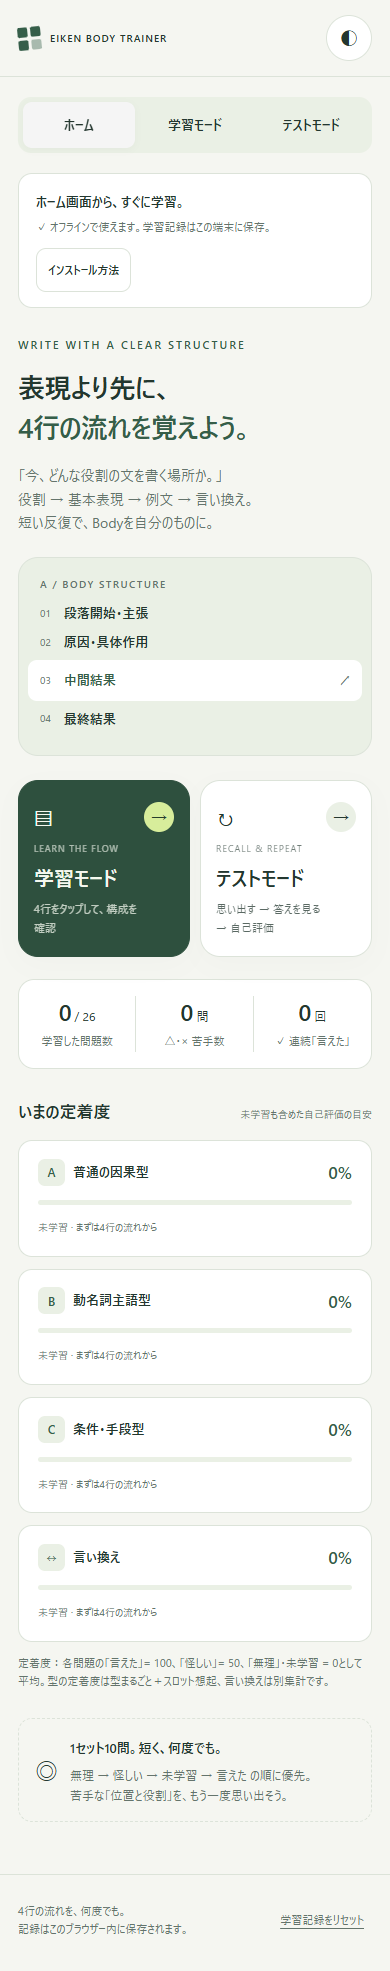
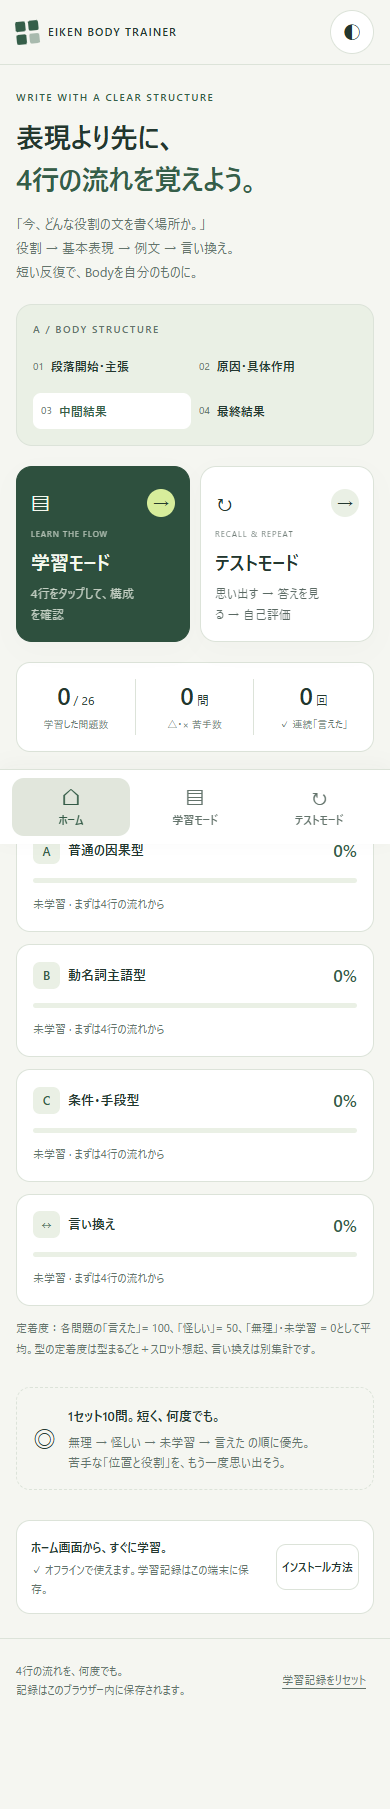
Refine mobile layout and navigation

diff --git a/index.html b/index.html
@@ -19,11 +19,108 @@
 .pwa-panel{margin-top:20px;padding:15px 17px;border:1px solid var(--line);border-radius:14px;background:var(--surface);display:flex;flex-wrap:wrap;gap:12px;align-items:center;justify-content:space-between}.pwa-panel strong{font-size:13px}.pwa-panel p{font-size:11px;color:var(--muted);margin:3px 0 0}.pwa-help{width:100%;border-top:1px solid var(--line);padding-top:10px}.pwa-help p{font-size:12px}
 .english{white-space:pre-line}
 .slot-toggle .english{white-space:pre-line}
+.nav-icon{display:none}
+@media(max-width:640px){
+ :root{--radius:18px}
+ body{font-size:14px;-webkit-text-size-adjust:100%;padding-bottom:calc(82px + env(safe-area-inset-bottom,0px))}
+ .wrap{padding-inline:16px}
+ header{position:sticky;top:0;z-index:20;background:var(--bg)}
+ .header{min-height:64px;gap:10px}
+ .brand{font-size:11px;letter-spacing:1.1px;min-width:0}
+ .icon-btn{width:44px;min-height:44px;flex-shrink:0}
+ body>.wrap{display:flex;flex-direction:column}
+ .navigation{position:fixed;inset:auto 0 0;z-index:30;width:100%;margin:0;padding:8px 12px calc(8px + env(safe-area-inset-bottom,0px));gap:6px;border:0;border-top:1px solid var(--line);border-radius:0;background:var(--surface);box-shadow:0 -4px 20px #17211d08}
+ .navigation button{display:flex;flex-direction:column;align-items:center;justify-content:center;gap:2px;min-height:58px;padding:4px 6px;font-size:11px;border-radius:12px;color:var(--muted)}
+ .nav-icon{display:block;font-size:22px;line-height:1.15;font-weight:400}
+ .navigation button[aria-current=page]{background:var(--soft);color:var(--accent);box-shadow:none}
+ #storage-warning{order:1}
+ main{order:2;min-width:0;padding:24px 0 30px}
+ .pwa-panel{order:3;margin:0 0 24px;padding:14px;border-radius:14px;gap:10px}
+ .pwa-panel>div:first-child{flex:1 1 160px}
+ .pwa-panel .detail-buttons{display:flex}
+ .pwa-panel strong{font-size:12px}
+ .pwa-panel p{font-size:11px;line-height:1.7}
+ .hero{gap:20px;margin-bottom:20px}
+ .hero h1{font-size:28px;line-height:1.5;letter-spacing:-.8px;margin-bottom:12px}
+ .hero p:not(.eyebrow){font-size:13px;line-height:1.85}
+ .eyebrow{font-size:10px;letter-spacing:1.5px;margin-bottom:10px}
+ .mini-body{display:grid;grid-template-columns:repeat(2,minmax(0,1fr));gap:8px;padding:16px;border-radius:16px}
+ .mini-label{grid-column:1/-1;margin:0 0 2px}
+ .mini-line{gap:7px;margin:0;padding:8px 0;min-width:0;font-size:12px}
+ .mini-line.active{margin:0;padding:8px;border-radius:8px}
+ .mini-line.active>span:last-child{display:none}
+ .mini-line strong{font-size:12px}
+ .mode-grid{gap:10px}
+ .mode-card{min-width:0;padding:17px 14px;border-radius:16px;gap:6px}
+ .mode-card .kicker{letter-spacing:1px;font-size:8px}
+ .mode-card strong{font-size:19px;line-height:1.6}
+ .mode-card .desc{font-size:12px;line-height:1.7}
+ .mode-card .arrow{width:28px;height:28px}
+ .stats{margin:20px 0 26px;padding:16px 0;border-radius:14px}
+ .stat strong{font-size:24px}
+ .stat span{font-size:10px}
+ .section-title{gap:8px;margin-bottom:12px}
+ .section-title h2{font-size:16px;flex-shrink:0}
+ .section-title span{font-size:10px;text-align:right;max-width:50%}
+ .mastery-card{padding:16px;border-radius:14px}
+ .mastery-card small{font-size:11px}
+ .page-head{margin-bottom:20px}
+ .page-head h1{font-size:24px;line-height:1.5;letter-spacing:-.6px}
+ .page-head p{font-size:13px;line-height:1.8}
+ .pattern{margin-bottom:12px}
+ .pattern-toggle{padding:18px 16px}
+ .pattern-toggle .letter{width:36px;height:36px;flex-shrink:0;margin-right:12px;font-size:16px}
+ .pattern-toggle strong{font-size:17px}
+ .pattern-toggle small{font-size:11px;line-height:1.7}
+ .pattern-content{padding:0 12px 14px}
+ .flow{display:grid;grid-template-columns:repeat(2,minmax(0,1fr));gap:10px 12px;padding:13px;margin-bottom:14px;line-height:1.65;font-size:12px}
+ .flow .flow-arrow{display:none}
+ .flow>span:not(.flow-arrow){display:flex;align-items:baseline;gap:6px;min-width:0}
+ .flow .flow-number{margin:0;font-size:11px;flex-shrink:0}
+ .tools{display:grid;grid-template-columns:repeat(3,minmax(0,1fr));gap:6px;margin:14px 0}
+ .tools .btn{min-width:0;min-height:46px;padding:8px 4px;font-size:11px}
+ .slot{border-radius:12px;margin-top:10px}
+ .slot-toggle{padding:15px 13px}
+ .slot-label{font-size:12px;line-height:1.7}
+ .answer-prompt{margin-top:10px;padding:11px 12px;font-size:12px}
+ .english{font-size:21px;line-height:1.65}
+ .slot-toggle .english{margin-top:10px}
+ .slot-details{padding:0 12px 14px}
+ .detail-buttons{display:grid;grid-template-columns:repeat(3,minmax(0,1fr));gap:6px}
+ .detail-buttons button{min-width:0;min-height:46px;padding:8px 5px;font-size:11px;line-height:1.6}.detail-buttons button span{white-space:nowrap}
+ .detail-content{padding:13px;font-size:13px;line-height:1.85}
+ .detail-content .english{font-size:19px}
+ .note{font-size:12px;line-height:1.85}
+ .test-controls{display:grid;grid-template-columns:1fr;gap:10px;margin-bottom:18px}
+ .test-filters{display:grid;grid-template-columns:repeat(6,minmax(0,1fr));gap:6px}
+ .test-filters .btn{grid-column:span 2;min-width:0;min-height:44px;padding:8px 4px;font-size:12px}
+ .test-filters .btn:nth-child(n+4){grid-column:span 3}
+ .test-controls label,.test-controls select{width:100%}
+ .test-controls select{font-size:16px;padding:11px 12px;min-height:48px}
+ .test-meta{font-size:11px;gap:8px}
+ .test-meta .counter{padding:4px 9px;border-radius:8px;background:var(--soft);white-space:nowrap}
+ .session-bar{margin-bottom:16px}
+ .test-card{padding:20px 15px;border-radius:18px}
+ .test-card h2{font-size:18px;line-height:1.6}
+ .test-card .instruction{font-size:13px;line-height:1.85}
+ .context-row{gap:9px;min-width:0}
+ .context-row>div,.context-row>.english{min-width:0;flex:1}
+ .context-row .english{font-size:20px}
+ .reveal-btn{min-height:56px;font-size:13px;padding:12px;line-height:1.75}
+ .ratings{gap:7px}
+ .ratings button{min-height:56px;padding:10px 4px;font-size:13px}
+ .completion .tools{grid-template-columns:1fr}
+ .fine{font-size:11px;line-height:1.9}
+ footer{padding:20px 0 24px}
+ .footer-content{gap:10px}
+ .reset-btn{min-height:44px}
+}
+@media(max-width:360px){.wrap{padding-inline:12px}.hero h1{font-size:26px}.brand{font-size:10px}.mode-card{padding:15px 12px}.mode-card strong{font-size:17px}.mode-card .desc{font-size:11px}.pattern-toggle{padding:16px 12px}.pattern-toggle .letter{margin-right:9px}.pattern-toggle strong{font-size:16px}.pattern-content{padding-inline:10px}.slot-toggle{padding-inline:11px}.slot-details{padding-inline:10px}.english{font-size:20px}.detail-content .english{font-size:18px}.test-card{padding-inline:13px}.context-row .english{font-size:19px}}
 </style>
 </head>
 <body>
 <header><div class="wrap header"><button class="brand" data-action="navigate" data-view="home" aria-label="EIKEN BODY TRAINER ホーム"><span class="mark" aria-hidden="true"><i></i><i></i><i></i><i></i></span><span>EIKEN BODY TRAINER</span></button><div class="header-end"><span class="offline">OFFLINE READY</span><button id="theme" class="icon-btn" aria-label="配色を切り替える" title="配色を切り替える">◐</button></div></div></header>
-<div class="wrap"><nav class="navigation" aria-label="メインメニュー"><button data-action="navigate" data-view="home" aria-current="page">ホーム</button><button data-action="navigate" data-view="study">学習モード</button><button data-action="navigate" data-view="test">テストモード</button></nav><div id="storage-warning" class="warning" role="status" hidden></div><main id="main"></main></div>
+<div class="wrap"><nav class="navigation" aria-label="メインメニュー"><button data-action="navigate" data-view="home" aria-current="page"><span class="nav-icon" aria-hidden="true">⌂</span>ホーム</button><button data-action="navigate" data-view="study"><span class="nav-icon" aria-hidden="true">▤</span>学習モード</button><button data-action="navigate" data-view="test"><span class="nav-icon" aria-hidden="true">↻</span>テストモード</button></nav><div id="storage-warning" class="warning" role="status" hidden></div><main id="main"></main></div>
 <footer><div class="wrap"><div class="footer-content"><span>4行の流れを、何度でも。<br>記録はこのブラウザー内に保存されます。</span><button class="reset-btn" data-action="reset">学習記録をリセット</button></div></div></footer>
 <div id="announcement" class="sr-only" aria-live="polite" aria-atomic="true"></div>
 <template id="pwa-template"><section class="pwa-panel" aria-label="アプリのインストール"><div><strong>ホーム画面から、すぐに学習。</strong><p id="pwa-status" role="status">オフラインの準備中…</p></div><div class="detail-buttons"><button class="btn" id="pwa-install" aria-expanded="false" aria-controls="pwa-help">インストール方法</button><button class="btn" id="pwa-update" hidden>最新版に更新</button></div><div class="pwa-help" id="pwa-help" hidden><p>Android・Galaxy Tab：Chromeで開き、メニュー（⋮）から「アプリをインストール」または「ホーム画面に追加」。</p><p>iPhone・iPad：Safariの共有メニューから「ホーム画面に追加」。PC：ブラウザーのアドレスバーにあるインストールアイコンを選択。</p><p>「オフラインで使えます」と表示されてから閉じてください。</p></div></section></template>
@@ -85,7 +182,7 @@ function mastery(qs){const total=qs.reduce((n,q)=>{const r=record(q.id);return n
 function metrics(){const rs=Object.values(state.records);return {learned:rs.filter(r=>ratingCount(r)>0).length,weak:rs.filter(r=>r.lastRating==='fail'||r.lastRating==='unsure').length};}
 function flow(p){return '<div class="flow" aria-label="論理の流れ">'+p.flow.map((s,i)=>`${i?'<span class="flow-arrow" aria-hidden="true">→</span>':''}<span><span class="flow-number">${i+1}</span>${s}</span>`).join('')+'</div>';}
 function home(){const m=metrics();return `<section class="hero"><div><p class="eyebrow">WRITE WITH A CLEAR STRUCTURE</p><h1>表現より先に、<br><span>4行の流れを覚えよう。</span></h1><p>「今、どんな役割の文を書く場所か。」<br>役割 → 基本表現 → 例文 → 言い換え。<br>短い反復で、Bodyを自分のものに。</p></div><div class="mini-body" aria-label="学習のイメージ"><div class="mini-label">A / BODY STRUCTURE</div><div class="mini-line"><span>01</span><strong>段落開始・主張</strong></div><div class="mini-line"><span>02</span><strong>原因・具体作用</strong></div><div class="mini-line active"><span>03</span><strong>中間結果</strong><span style="margin-left:auto">↗</span></div><div class="mini-line"><span>04</span><strong>最終結果</strong></div></div></section><div class="mode-grid"><button class="mode-card primary" data-action="navigate" data-view="study"><span class="mode-icon" aria-hidden="true">▤</span><span class="kicker">LEARN THE FLOW</span><strong>学習モード</strong><span class="desc">4行をタップして、構成を確認</span><span class="arrow" aria-hidden="true">→</span></button><button class="mode-card" data-action="navigate" data-view="test"><span class="mode-icon" aria-hidden="true">↻</span><span class="kicker">RECALL & REPEAT</span><strong>テストモード</strong><span class="desc">思い出す → 答えを見る → 自己評価</span><span class="arrow" aria-hidden="true">→</span></button></div><div class="stats"><div class="stat"><strong>${m.learned}<small>/ ${QUESTIONS.length}</small></strong><span>学習した問題数</span></div><div class="stat"><strong>${m.weak}<small>問</small></strong><span>△・× 苦手数</span></div><div class="stat"><strong>${state.streak}<small>回</small></strong><span>✓ 連続「言えた」</span></div></div><div class="section-title"><h2>いまの定着度</h2><span>未学習も含めた自己評価の目安</span></div><div class="mastery-grid">${[...PATTERNS.map(p=>({label:p.name,letter:p.id,qs:QUESTIONS.filter(q=>q.pattern===p.id&&q.kind!=='alt')})),{label:'言い換え',letter:'↔',qs:QUESTIONS.filter(q=>q.kind==='alt')}].map(x=>{const learned=x.qs.filter(q=>ratingCount(record(q.id))>0).length;return `<div class="mastery-card"><div class="mastery-top"><span class="mastery-name"><span class="letter">${x.letter}</span>${x.label}</span><strong>${mastery(x.qs)}%</strong></div><div class="bar"><span style="width:${mastery(x.qs)}%"></span></div><small>${learned?`${learned} / ${x.qs.length} 問を学習済み`:'未学習 · まずは4行の流れから'}</small></div>`;}).join('')}</div><p class="fine">定着度：各問題の「言えた」= 100、「怪しい」= 50、「無理」・未学習 = 0として平均。型の定着度は型まるごと＋スロット想起、言い換えは別集計です。</p><div class="method"><span class="big" aria-hidden="true">◎</span><div><strong>1セット10問。短く、何度でも。</strong><p>無理 → 怪しい → 未学習 → 言えた の順に優先。<br>苦手な「位置と役割」を、もう一度思い出そう。</p></div></div>`;}
-function details(p,s,i){const id=p.id+'-'+i;return `<div class="slot-details"><div class="detail-buttons">${[['explain','説明'],['examples','例文'],['alternatives',p.id==='C'&&(i===1||i===2)?'助動詞ルール':'言い換え']].map(([k,label])=>`<button class="btn" data-action="detail" data-id="${id}" data-kind="${k}" aria-expanded="${!!detailOpen[id+'-'+k]}" aria-controls="${id+'-'+k}">${label}${detailOpen[id+'-'+k]?'を閉じる':'を見る'}</button>`).join('')}</div>${['explain','examples','alternatives'].map(k=>`<div class="detail-content" id="${id+'-'+k}" ${detailOpen[id+'-'+k]?'':'hidden'}>${detailOpen[id+'-'+k]?`<div class="context-label">${p.id}型 · ${i+1}行目 · ${s.role}</div>`+(k==='explain'?`<p>${esc(s.explain)}</p>`:k==='examples'?s.examples.map(e=>`<p class="english" lang="en">${esc(e)}</p>`).join(''):s.alternatives.length?s.alternatives.map(e=>`<p class="english" lang="en">${esc(e)}</p>`).join(''):'<p>固定フレーズの言い換えはありません。原因となる主語と動詞で具体化します。</p>')+(s.note&&k!=='examples'?`<p class="note">${esc(s.note)}</p>`:''):''}</div>`).join('')}</div>`;}
+function details(p,s,i){const id=p.id+'-'+i;return `<div class="slot-details"><div class="detail-buttons">${[['explain','説明'],['examples','例文'],['alternatives',p.id==='C'&&(i===1||i===2)?'助動詞ルール':'言い換え']].map(([k,label])=>`<button class="btn" data-action="detail" data-id="${id}" data-kind="${k}" aria-expanded="${!!detailOpen[id+'-'+k]}" aria-controls="${id+'-'+k}"><span>${label}</span><span>${detailOpen[id+'-'+k]?'を閉じる':'を見る'}</span></button>`).join('')}</div>${['explain','examples','alternatives'].map(k=>`<div class="detail-content" id="${id+'-'+k}" ${detailOpen[id+'-'+k]?'':'hidden'}>${detailOpen[id+'-'+k]?`<div class="context-label">${p.id}型 · ${i+1}行目 · ${s.role}</div>`+(k==='explain'?`<p>${esc(s.explain)}</p>`:k==='examples'?s.examples.map(e=>`<p class="english" lang="en">${esc(e)}</p>`).join(''):s.alternatives.length?s.alternatives.map(e=>`<p class="english" lang="en">${esc(e)}</p>`).join(''):'<p>固定フレーズの言い換えはありません。原因となる主語と動詞で具体化します。</p>')+(s.note&&k!=='examples'?`<p class="note">${esc(s.note)}</p>`:''):''}</div>`).join('')}</div>`;}
 function study(){return `<div class="page-head"><p class="eyebrow">LEARN THE FLOW</p><h1>位置と役割を、ひとまとまりに。</h1><p>型を開き、まず論理の流れを確認。英文は1行ずつタップで表示・非表示にできます。</p></div>${PATTERNS.map(p=>`<section class="pattern"><button class="pattern-toggle" data-action="pattern" data-pattern="${p.id}" aria-expanded="${studyOpen[p.id]}" aria-controls="pattern-${p.id}"><span class="title"><span class="letter">${p.id}</span><span><strong>${p.name}</strong><small>${p.tag}</small></span></span><span class="chevron" aria-hidden="true">${studyOpen[p.id]?'−':'＋'}</span></button><div class="pattern-content" id="pattern-${p.id}" ${studyOpen[p.id]?'':'hidden'}>${studyOpen[p.id]?flow(p)+`<div class="tools"><button class="btn" data-action="all" data-pattern="${p.id}" data-show="yes">すべて表示</button><button class="btn" data-action="all" data-pattern="${p.id}" data-show="no">すべて隠す</button><button class="btn" data-action="random" data-pattern="${p.id}">ランダムに隠す</button></div>`+p.slots.map((s,i)=>{const id=p.id+'-'+i;return `<div class="slot"><button class="slot-toggle" data-action="slot" data-id="${id}" aria-expanded="${!!slotOpen[id]}" aria-controls="answer-${id} details-${id}"><span class="slot-label"><span><span class="number">0${i+1}</span>${s.role}</span><span class="toggle-symbol" aria-hidden="true">${slotOpen[id]?'−':'＋'}</span></span>${slotOpen[id]?`<span id="answer-${id}" class="english" lang="en">${esc(s.base)}</span>`:`<span id="answer-${id}" class="answer-prompt">タップして答えを見る</span>`}</button><div id="details-${id}" ${slotOpen[id]?'':'hidden'}>${slotOpen[id]?details(p,s,i):''}</div></div>`;}).join(''):''}</div></section>`).join('')}<p class="fine">学習画面の開閉は定着度に影響しません。テストの自己評価で記録します。</p>`;}
 const kindLabels={whole:'型まるごと',slot:'スロット',alt:'言い換え',grammar:'助動詞ルール'};
 const questionKindLabel=q=>kindLabels[q.kind];

diff --git a/sw.js b/sw.js
@@ -1,6 +1,6 @@
 'use strict';
 // Bump VERSION when deploying changes to the offline app shell.
-const VERSION = 'v5';
+const VERSION = 'v6';
 const PREFIX = 'eiken-body-trainer:' + self.registration.scope + ':';
 const CACHE = PREFIX + VERSION;
 const base = self.registration.scope;

diff --git a/README.md b/README.md
@@ -34,6 +34,8 @@ python -m http.server 5173 --bind 127.0.0.1
 
 ## 学習
 
+スマホでは画面下のメニューでホーム・学習・テストを切り替えます。4つの役割は2列で表示し、各行の操作やテストの絞り込みボタンを同じ幅で並べます。インストール案内は画面末尾に置き、画面下のメニューが末尾の操作を覆わない余白を確保しています。PCの配置は維持しています。
+
 - A/B/Cのカードを開き、最初に4行の論理の流れを確認します。
 - 各行をタップして英文を表示し、再度タップして隠します。
 - 「説明」「例文」「言い換え」は、それぞれ独立して開閉できます。
@@ -78,7 +80,7 @@ python -m http.server 5173 --bind 127.0.0.1
 
 ## 確認結果
 
-2026-10-03、インストール済みChromeをPlaywrightから起動し、ローカルHTTP上で学習機能の17項目を確認しました。C型の4行の基本表示・説明・例文・想起、旧C型問題IDの成績保持、A/B型の維持、各行の開閉、スマホ幅での横スクロールなし、配色・画面・開閉・スクロール位置の再読み込み／タブ再起動後の復元、テスト途中状態の復元と出題回数の重複防止を含みます。実行結果は `verification-results.json`、再実行用スクリプトは `verify.cjs`、画面は `preview-*.png` です。これらの補助ファイルはアプリの利用には不要です。
+2026-10-03、インストール済みChromeをPlaywrightから起動し、ローカルHTTP上で学習機能の18項目を確認しました。C型の4行の基本表示・説明・例文・想起、旧C型問題IDの成績保持、A/B型の維持、各行の開閉、スマホ幅での横スクロールなし、配色・画面・開閉・スクロール位置の再読み込み／タブ再起動後の復元、テスト途中状態の復元と出題回数の重複防止を含みます。実行結果は `verification-results.json`、再実行用スクリプトは `verify.cjs`、画面は `preview-*.png` です。これらの補助ファイルはアプリの利用には不要です。
 
 PWAはGitHub Pagesと同じ `/essay/` のパスで6項目を確認しました：Service Worker有効化と全アセットのキャッシュ、manifest・アイコン・Chromeのインストール条件、オフラインでのページ開き直しと進捗保存、インストール説明の操作、専用インストール画面のmanifest・追加処理・記録保持、ユーザー操作による更新と進捗・他アプリのキャッシュ保持。オフライン再起動と更新後の配色・開閉状態の保持も確認しました。結果は `pwa-verification-results.json`、再実行は `node verify-pwa.cjs` です。実機でのインストール・OSからの起動は未確認です。
 
